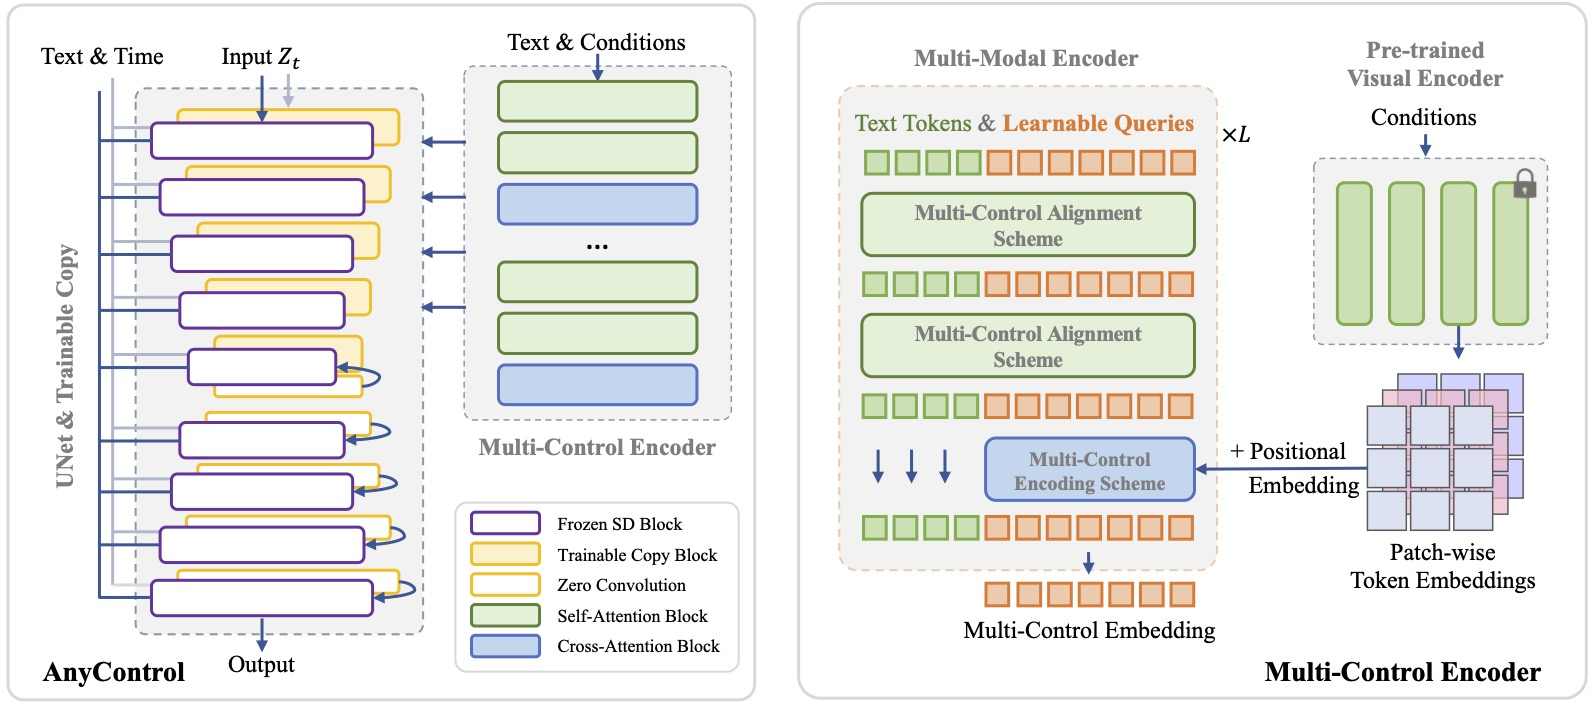
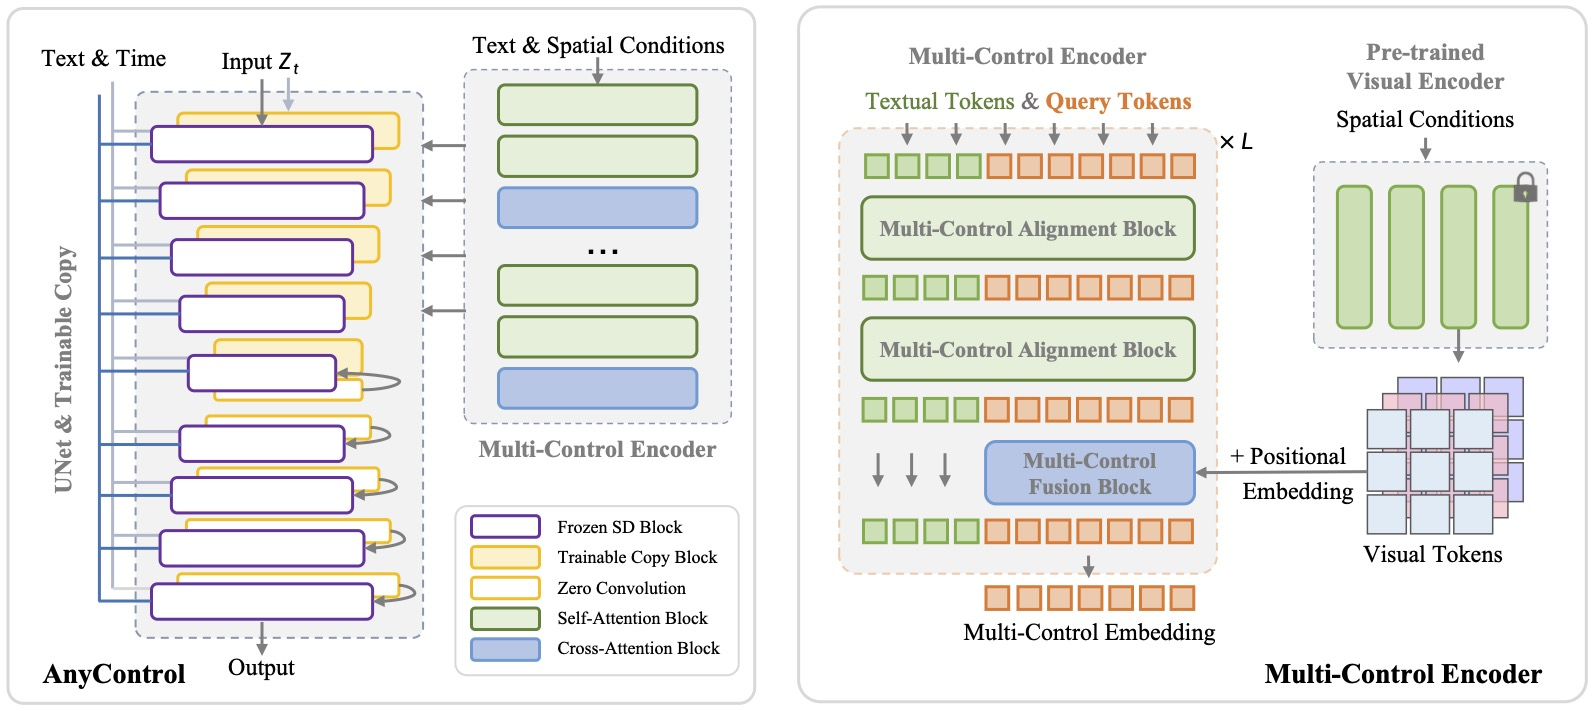
update figure and abstract

diff --git a/index.html b/index.html
@@ -14,8 +14,9 @@
 
 <body>
 <div class="content">
-  <h1><strong>AnyControl: Create Your Artwork with Versatile Control on Text-to-Image Generation</strong></h1>
-  <p id="authors"><a href="https://scholar.google.com/citations?user=6TA1oPkAAAAJ&hl=en">Yanan Sun</a	><sup>1</sup> Yanchen Liu<sup>1,2</sup> Yinhao Tang<sup>1</sup> <a href="">Wenjie Pei</a><sup>2</sup> <a href="https://chenkai.site/">Kai Chen</a><sup>1</sup><br>
+  <h1><strong>AnyControl: Create Your Artwork with Versatile Control</strong></h1>
+  <h1><strong>on Text-to-Image Generation</strong></h1>
+  <p id="authors"><a href="https://scholar.google.com/citations?user=6TA1oPkAAAAJ&hl=en">Yanan Sun</a><sup>1</sup>&nbsp;Yanchen Liu<sup>1,2</sup>&nbsp;Yinhao Tang<sup>1</sup>&nbsp;<a href="">Wenjie Pei</a><sup>2</sup>&nbsp;<a href="https://chenkai.site/">Kai Chen</a><sup>1</sup><br>
     <br>
   <span style="font-size: 18px"><sup>1</sup>Shanghai AI Laboratory &nbsp;&nbsp;&nbsp;&nbsp; <sup>2</sup>Harbin Institute of Technology, Shenzhen 
   </span></p>
@@ -25,8 +26,7 @@
   <h3 style="text-align:center"><em>Let us create your artworks under <span style="color:rgb(253, 60, 94);">versatile control</span> in <span style="color:rgb(241, 73, 177);">any free combination</span>.</em></h3>    <font size="+2">
           <p style="text-align: center;">
             <a href="TODO" target="_blank">[Paper]</a> &nbsp;&nbsp;&nbsp;&nbsp;
-            <a href="TODO" target="_blank">[Code]</a> &nbsp;&nbsp;&nbsp;&nbsp;
-            <a href="TODO" target="_blank">[Demo]</a> &nbsp;&nbsp;&nbsp;&nbsp;
+            <a href="TODO" target="https://github.com/nowsyn/AnyControl">[Code]</a> &nbsp;&nbsp;&nbsp;&nbsp;
             <a href="TODO" target="_blank">[Model Card]</a> &nbsp;&nbsp;&nbsp;&nbsp;
 	    <!-- (<font color="#C70039">new!</font>) <a href="https://github.com/TencentARC/PhotoMaker" target="_blank">[Dataset]</a> &nbsp;&nbsp;&nbsp;&nbsp; -->
             <a href="files/bibtex.txt" target="_blank">[BibTeX]</a>
@@ -42,23 +42,17 @@
 
 <div class="content">
   <h2 style="text-align:center;">Abstract</h2>
-  <p>The field of text-to-image (T2I) generation has made significant progress in recent years, thanks to diffusion models. Linguistic control enables effective content creation, but is defective in fine-grained control over image generation. This challenge has been solved in great extent by incorporating additional user-supplied spatial conditions like depth map, edge map into pre-trained T2I model via extra encoding. However, multi-control image synthesis still struggle with input flexibility, handling the relationship among spatial conditions, 
-and maintaining compatibility with text inputs. To address these challenges, we propose <strong>AnyControl</strong>, a controllable image synthesis framework that supports any combination of various forms of control signals. AnyControl develops a novel Multi-Control Encoder to extract a unified multi-modal embedding for diverse control signals used for guiding the generation process. We achieve this by employing alternate multi-control encoding scheme and multi-control alignment scheme, with learnable queries as a bridge to unite them seamlessly and gradually distill compatible information from spatial conditions guided by textual prompts. This approach enables holistic understanding of user inputs, and produces harmonious results in high quality and fidelity under versatile control signals, demonstrated by extensive quantitative and qualitative results. 
+  <p>
+The field of text-to-image (T2I) generation has made significant progress in recent years, largely driven by advancements in diffusion models. Linguistic control enables effective content creation, but struggles with fine-grained control over image generation. This challenge has been explored, to a great extent, by incorporating additional user-supplied spatial conditions, such as depth maps and edge maps, into pre-trained T2I models through extra encoding. However, multi-control image synthesis still faces several challenges. Specifically, current approaches are limited in handling free combinations of diverse input control signals, overlook the complex relationships among multiple spatial conditions, and often fail to maintain semantic alignment with provided textual prompts. This can lead to suboptimal user experiences. To address these challenges, we propose <strong>AnyControl</strong>, a multi-control image synthesis framework that supports arbitrary combinations of diverse control signals. AnyControl develops a novel Multi-Control Encoder that extracts a unified multi-modal embedding to guide the generation process. This approach enables a holistic understanding of user inputs, and produces high-quality, faithful results under versatile control signals, as demonstrated by extensive quantitative and qualitative evaluations.
 </p>
 
 </div>
-<!-- <div class="content">
-  <h2>Background</h2>
-  <p> Given a particular subject such as clock (shown in the real images on the left), it is very challenging to generate it in different contexts with state-of-the-art text-to-image models, while maintaining high fidelity to its key visual features. Even with dozens of iterations over a text prompt that contains a detailed description of the appearance of the clock (<em>"retro style yellow alarm clock with a white clock face and a yellow number three on the right part of the clock face in the jungle"</em>), the Imagen model [Saharia et al., 2022] can't reconstruct its key visual features (third column). Furthermore, even models whose text embedding lies in a shared language-vision space and can create semantic variations of the image, such as DALL-E2 [Ramesh et al., 2022], can neither reconstruct the appearance of the given subject nor modify the context (second column). In contrast, our approach (right) can synthesize the clock with high fidelity and in new contexts (<em>"a [V] clock in the jungle"</em>).</p>
-  <br>
-  <img class="summary-img" src="./assets/background.png" style="width:100%;"> <br>
-</div> -->
 <div class="content">
   <h2 style="text-align:center;">Method</h2>
-  <p> AnyControl supports free combination of versatile control signals, which develops a Multi-Control Encoder that enables holistic understanding of multi-modal user inputs. We achieve this through employing alternating multi-control encoding and alignment schemes united by a set of learnable queries. 
+  <p> AnyControl supports free combination of versatile control signals, which develops a Multi-Control Encoder that enables holistic understanding of multi-modal user inputs. We achieve this through employing alternating multi-control fusion and alignment blocks united by a set of query tokens. 
   <br>
   <img class="summary-img" src="./assets/framework.jpg" style="width:95%;"> <br>
-  <p>We first send all spatial control signals into the <strong>Multi-Control Encoder</strong> for extracting comprehensive multi-control embeddings based on the textual prompts and multiple spatial conditions. The multi-control embeddings are then utilized to guide the generation process. The  Multi-Control Encoder is driven by alternate multi-control encoding and alignment schemes, with learnable queries defined to distill the compatible information from the patch-wise token embeddings of the spatial conditions as well as textual prompts.</p>
+  <p>We first send all spatial control signals into the <strong>Multi-Control Encoder</strong> for extracting comprehensive multi-control embeddings according to textual prompts. The multi-control embeddings are then utilized to guide the generation process. The  Multi-Control Encoder is driven by alternate multi-control fusion and alignment blocks, with query tokens  defined to aggregate the compatible information from textual tokens as well as the visual tokens of the spatial conditions.</p>
   <br>
 </div>
 <div class="content">
